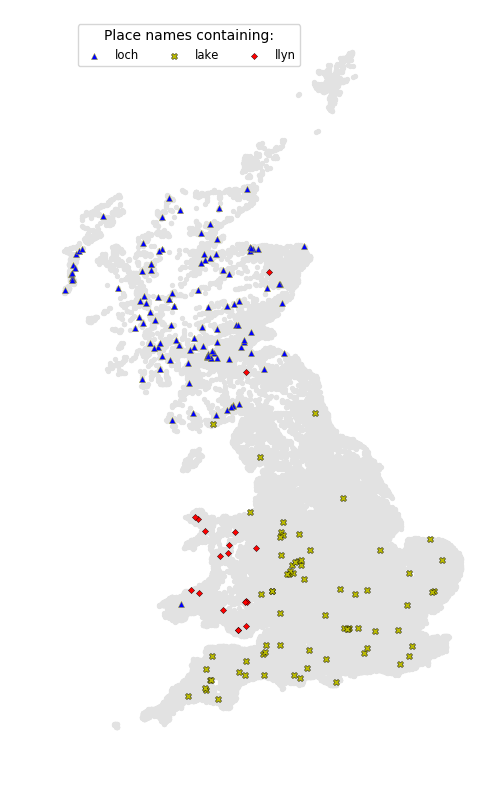
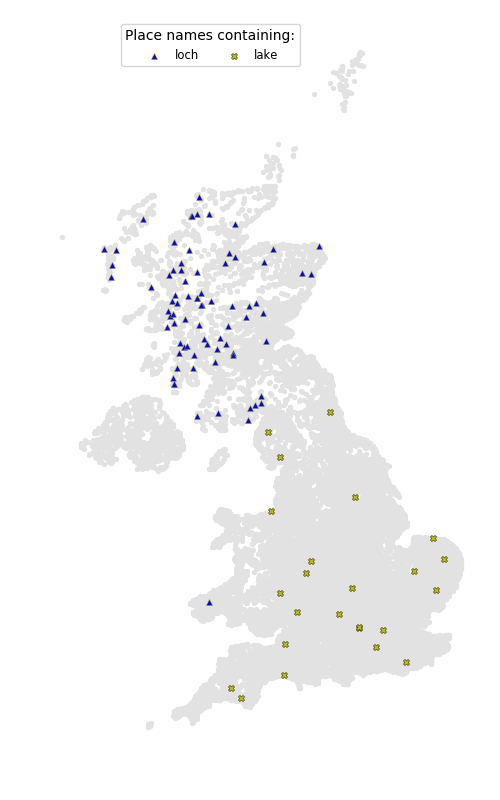
maintainance/pruning/reorganisation of maps

diff --git a/README.md b/README.md
@@ -15,7 +15,7 @@
 
 The quality of these is admittedly questionable.
 
-![loch, lake, llyn](images/coords_loch_lake_llyn.png)
+![bury, borough, burgh, brough](images/coords_bury_borough_burgh_brough.png)
 
 ![kirk, church, eglwys](images/kirk_church_eglwys.png)
 
@@ -24,25 +24,31 @@ The [etymology of the word kirk](https://en.wikipedia.org/wiki/Kirk#Basic_meanin
 ![Danelaw](images/danelaw_map.png)
 (Source: [Wikipedia](https://en.wikipedia.org/wiki/Danelaw))
 
+Known Danelaw place name parts include 'holm', 'thwaite', 'toft', 'thorpe' and places ending 'by'.
+
 ![holm](images/coords_holm.png)
 
-"Holm" - another Old Norse term that fits this pattern.
+![thorp](images/coords_thorp.png)
+
+![thwaite](images/coords_thwaite.png)
+
+![toft](images/coords_toft.png)
+
+![by, bie](images/coords_by_bie.png)
+
+![loch, lake](images/coords_loch_lake_llyn.png)
+
+![rivers](images/coords_rivers.png)
 
 ![sea](images/coords_sea.png)
 
 Few surprises here: a well-defined line is drawn around parts of the coast with place names mentioning the sea.
-
-![bury, borough, burgh, brough](images/coords_bury_borough_burgh_brough.png)
 
 ![inver, mouth, aber](images/coords_inver_mouth_aber.png)
 
 "Aber", "Mouth", and "Inver" all refer to river mouths. Interesting to note that "Aber" is shared between Scotland and Wales, while "Inver" is exclusively Scottish.
 
 ![green](images/coords_green.png)
-
-![thorp](images/coords_thorp.png)
-
-I suspect this to be [another Danelaw term](https://en.wiktionary.org/wiki/thorp#Etymology).
 
 ![-worth, -worthy](images/coords_worth_worthy.png)
 
@@ -64,15 +70,9 @@ Interesting that "worth" is well spread over England but does not venture into S
 
 ![cwm](images/coords_cwm.png)
 
-![thwaite](images/coords_thwaite.png)
-
-![by, bie](images/coords_by_bie.png)
-
 ![nan](images/coords_nan.png)
 
 ![-cott, -cot](images/cott_cot.png)
-
-![rivers](images/coords_rivers.png)
 
 ![higher-, upper-](images/coords_higher_upper.png)
 
@@ -85,8 +85,6 @@ I have kept the version from the older dataset as the difference is much more ap
 ![wald, wold, weald](images/coords_wald_wold_weald.png)
 
 Weald is [Old/Middle English for "wood"](https://en.wiktionary.org/wiki/weald#English).
-
-![toft](images/coords_toft.png)
 
 ## Most common dictionary words in British place names
 
